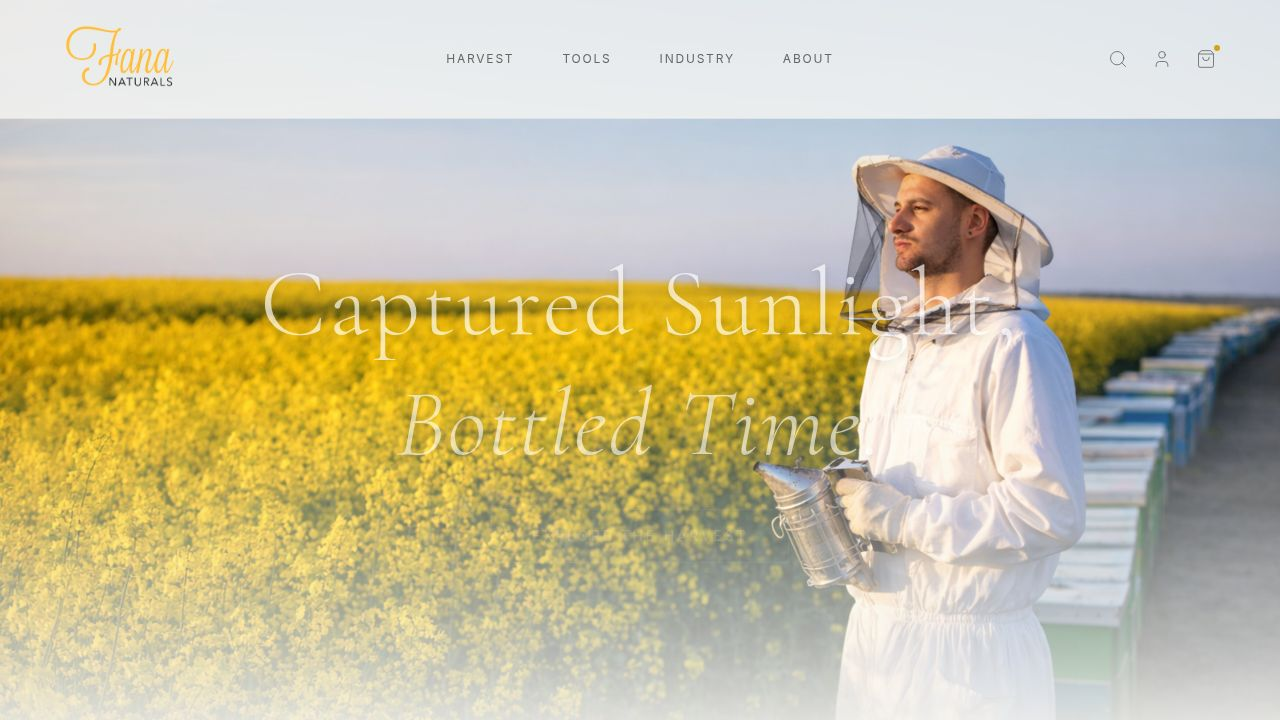
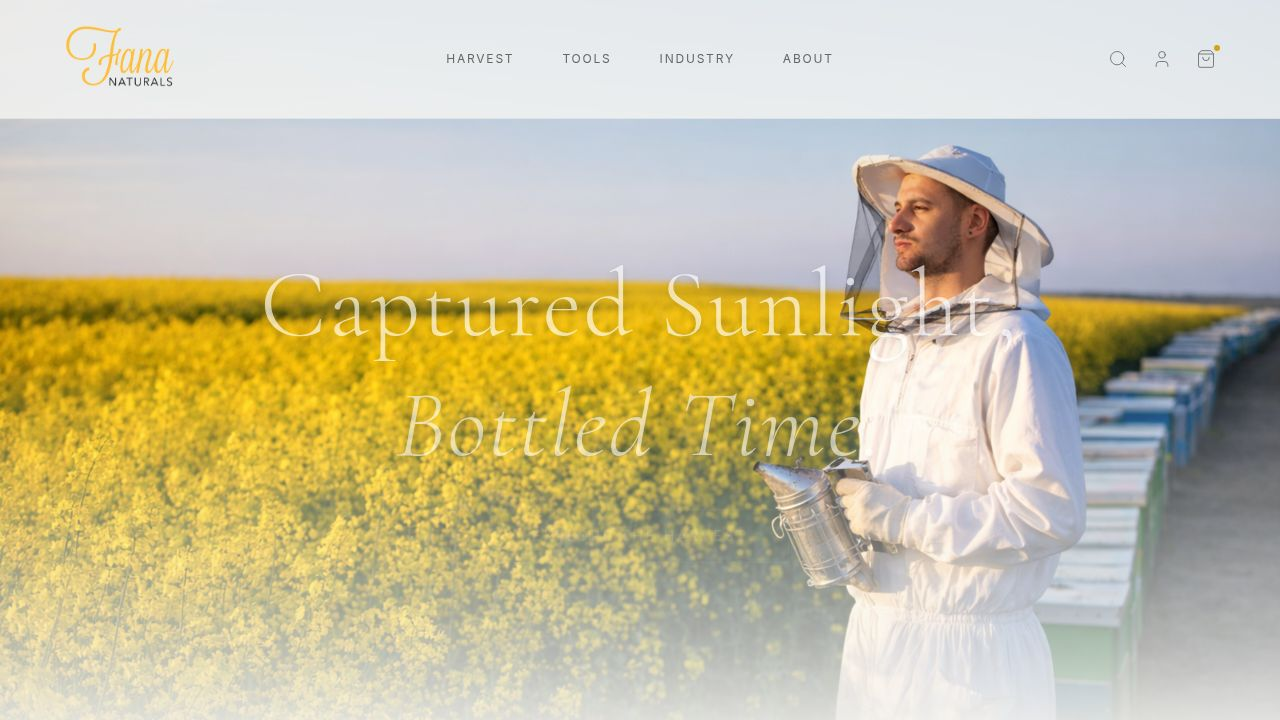
Update homepage to better reflect business offerings
Refactor the homepage's introductory text to highlight both premium hive products and professional beekeeping equipment.

Replit-Commit-Author: Agent
Replit-Commit-Session-Id: 59ac4e69-2be9-4897-ac4e-e7574c618832
Replit-Commit-Checkpoint-Type: full_checkpoint
Replit-Commit-Event-Id: 44aac5cd-175e-4e02-b35e-21c2da2f3c24
Replit-Commit-Screenshot-Url: https://storage.googleapis.com/screenshot-production-us-central1/f3527367-6d14-4f62-aaeb-5f79bff34794/59ac4e69-2be9-4897-ac4e-e7574c618832/zIlkSY4
Replit-Helium-Checkpoint-Created: true

diff --git a/client/src/pages/home.tsx b/client/src/pages/home.tsx
@@ -132,7 +132,7 @@ export default function Home() {
             className="lg:col-span-7"
           >
             <motion.p variants={viscousFade} className="font-sans text-lg md:text-2xl text-foreground/80 leading-relaxed tracking-[0.05em] font-light">
-              "We are beekeepers first. For over thirty-five years, our pulse has followed the rhythm of the Canadian prairies. Fana Naturals exists at the intersection of heritage and stewardship. We manage the entire journey—from the untouched source to the processing facility—ensuring that the welfare of the bee is protected and the story of the land remains pure in every drop."
+              "We are beekeepers and innovators. For over thirty-five years, Fana Naturals has stood at the forefront of the apicultural industry. We specialize in premium hive products—from pure Canadian honey and potent bee pollen to advanced freeze-dried royal jelly and drone powders. Beyond the harvest, we equip the modern commercial apiary with precision tools and industrial-grade extraction machinery, ensuring that the legacy of beekeeping scales with absolute purity."
             </motion.p>
           </motion.div>
         </div>
